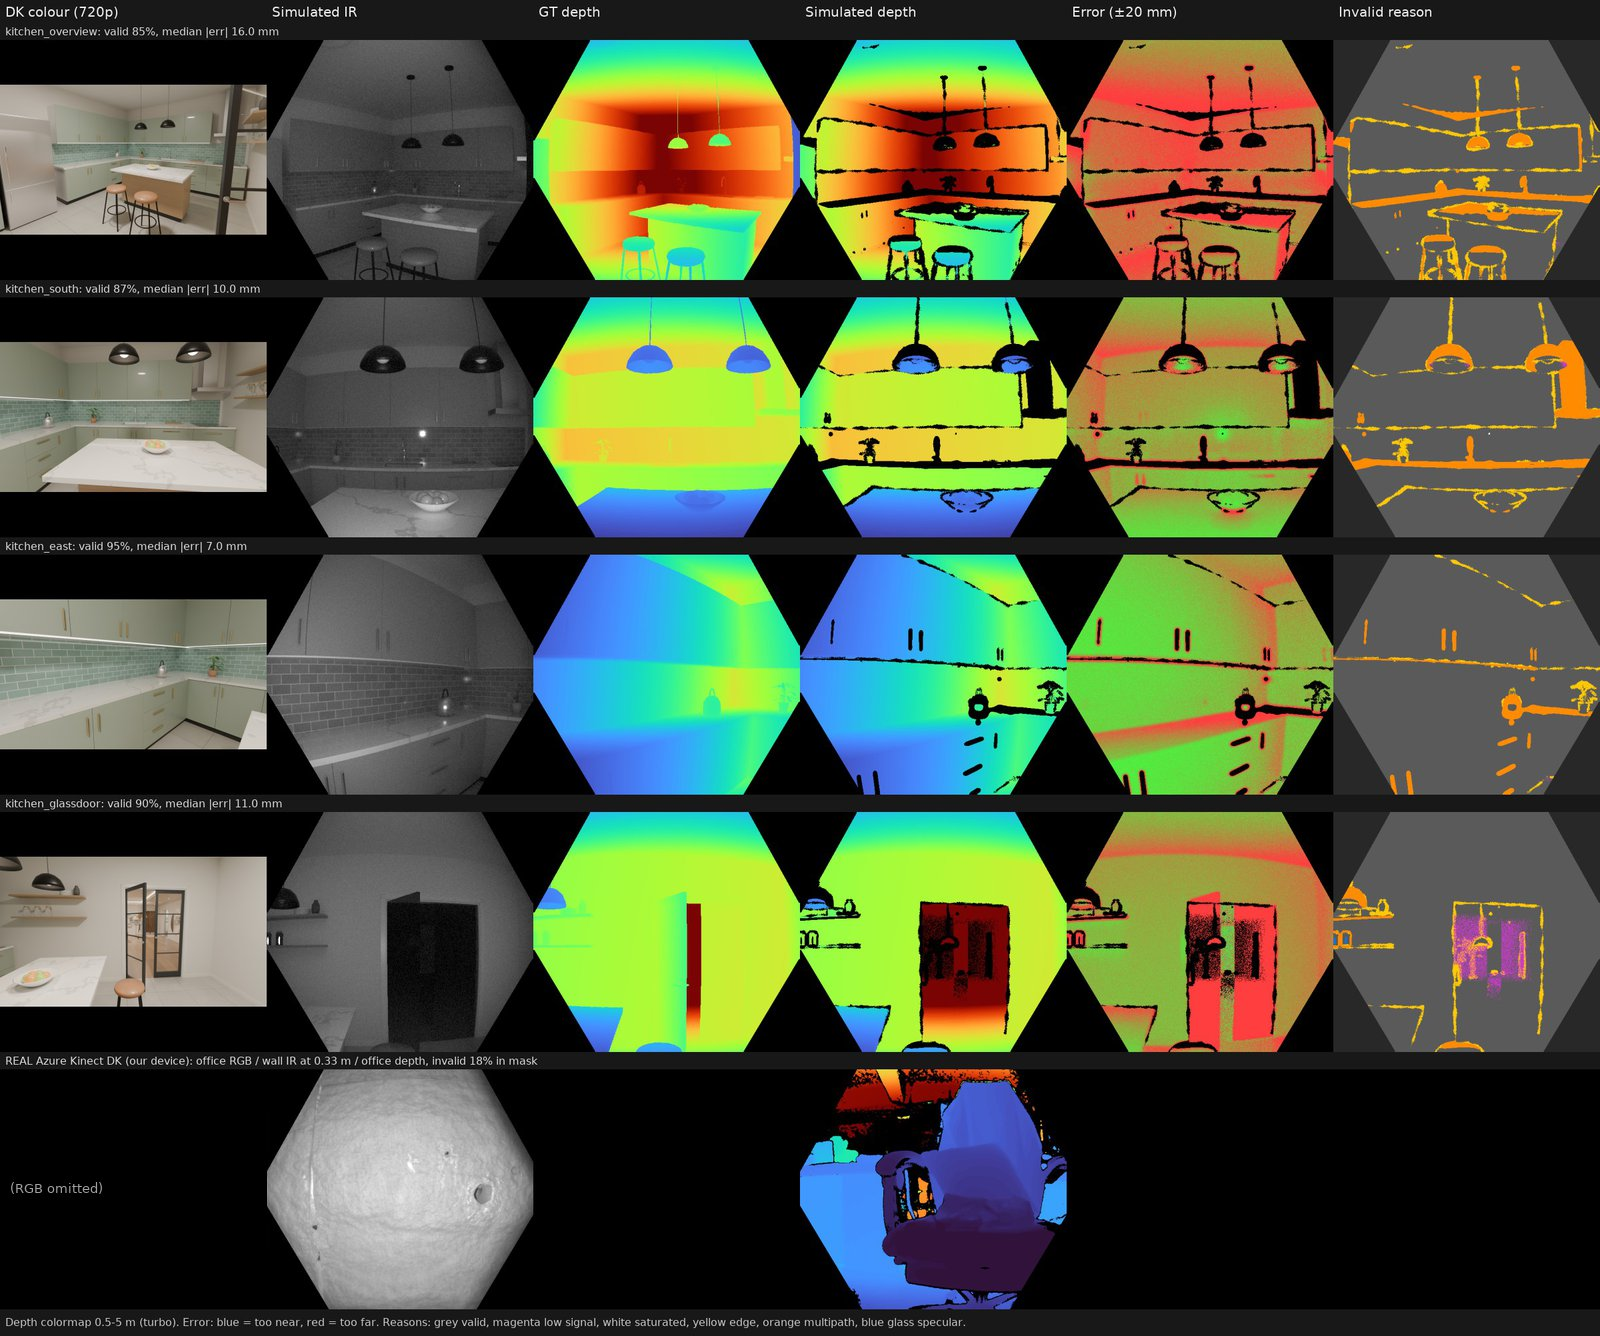
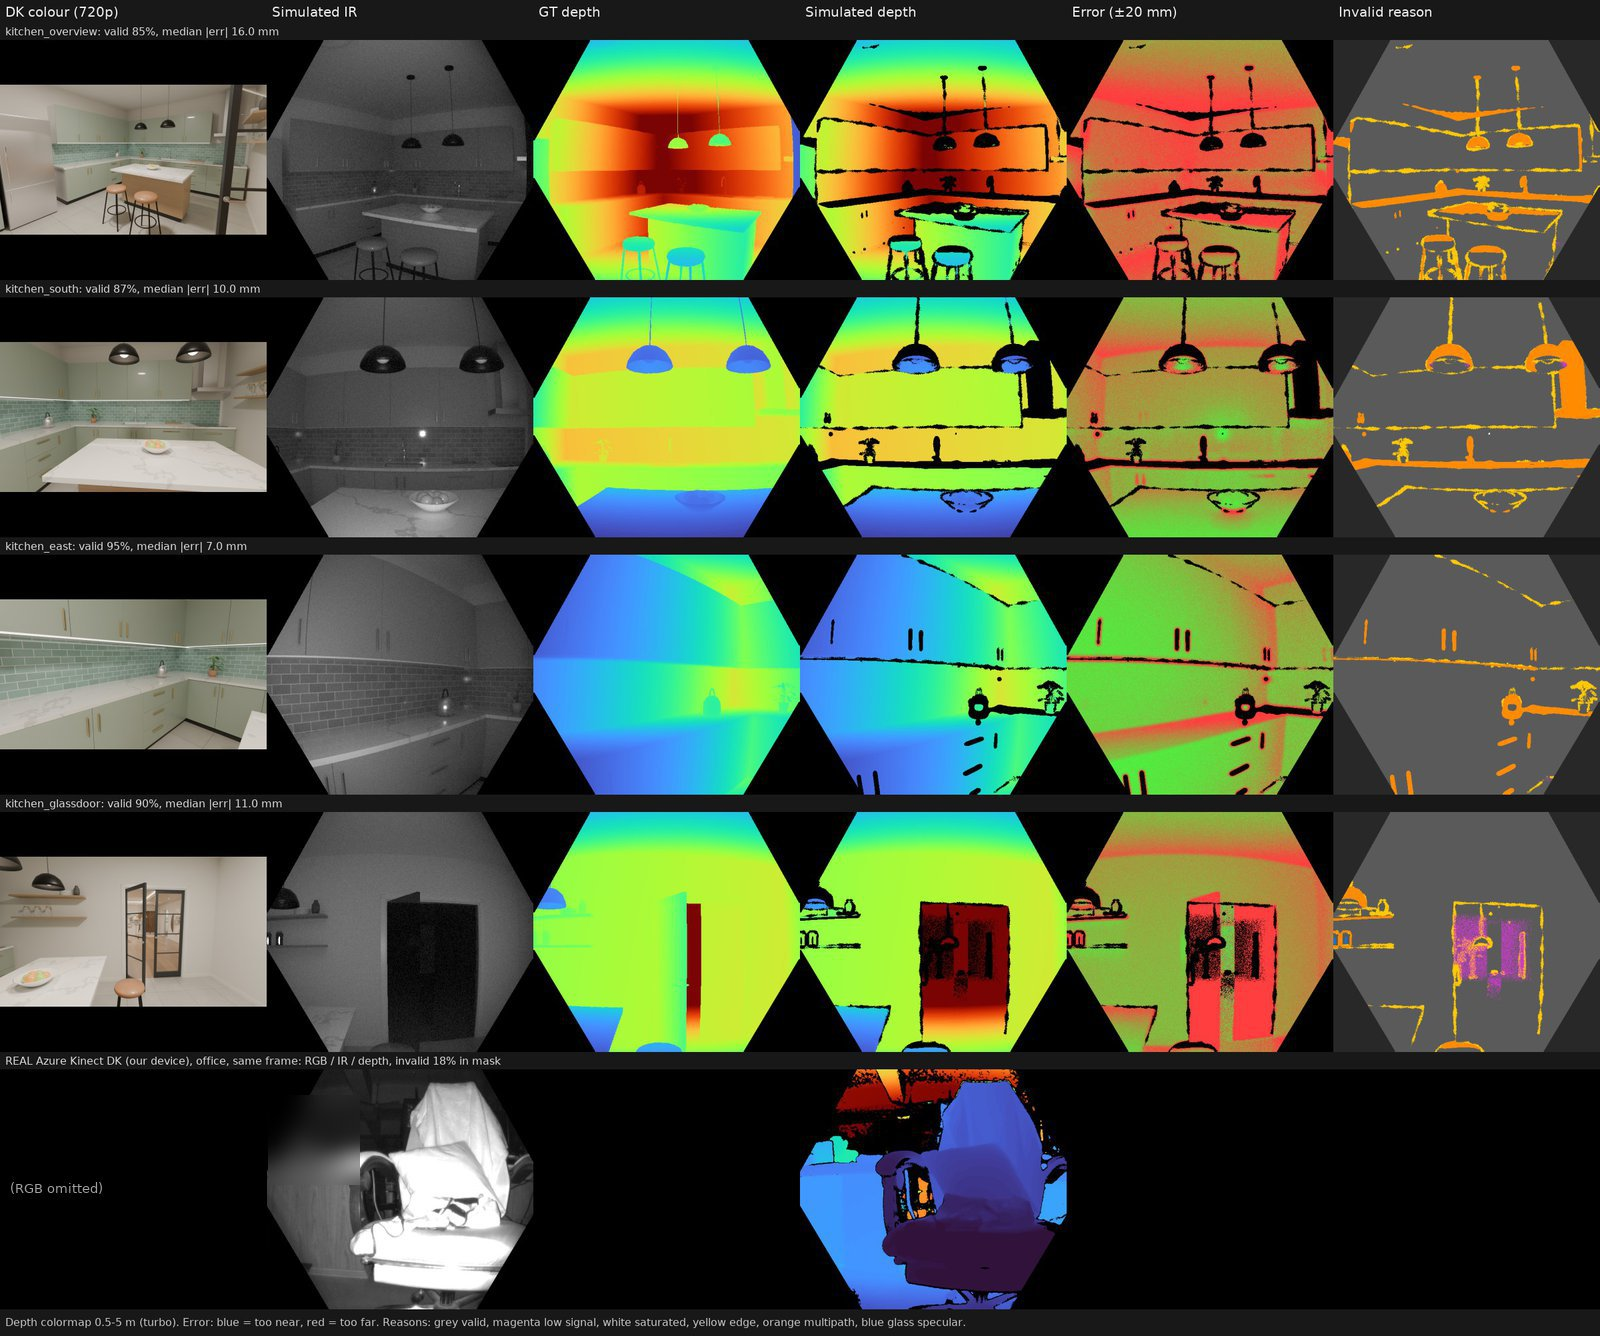
DK preview: real reference row uses IR from the same office frame

Changed region(s): [[0.1562, 0.7672, 0.3438, 0.982]]

diff --git a/kinect_dk/kinect_sim.py b/kinect_dk/kinect_sim.py
@@ -14,6 +14,7 @@
 """
 import argparse
 import json
+import subprocess
 import sys
 from pathlib import Path
 
@@ -221,17 +222,24 @@ def preview(out, results, real_root):
         rv[(r['reason'] == 0) & r['mask']] = (90, 90, 90)
         rows.append([tile(colour), tile(irv), tile(colour_depth(r['gt'])), tile(colour_depth(r['depth'])), tile(errv), tile(rv)])
         titles.append(f"{name}: valid {stats['valid_in_mask']:.0%}, median |err| {stats['abs_err_median_mm']:.1f} mm")
-    # 真机参考：test 序列（办公室，近静止）
+    # 真机参考：test 序列（办公室，近静止）同一帧的彩色、红外、深度
+    # 导出目录里没有 test 的红外，直接从录像 MKV 的 IR 轨（第 3 路流）解码同一帧；与模拟红外同一显示比例
     real = sorted((real_root / 'test_pyk4a_export' / 'depth_raw').glob('*.npy'))
     if real:
-        d = np.load(real[50])
-        rgb = cv2.imread(str(sorted((real_root / 'test_pyk4a_export' / 'rgb_raw').glob('*.png'))[50]))
-        wall_ir = sorted((real_root / 'dry_pyk4a_export' / 'ir_raw').glob('*.npy'))
-        irr = np.load(wall_ir[100]).astype(np.float32) if wall_ir else np.zeros_like(d, np.float32)
-        irr = cv2.cvtColor(np.clip((irr / 8000.0) ** 0.5 * 255, 0, 255).astype(np.uint8), cv2.COLOR_GRAY2BGR)
+        fi = 50
+        d = np.load(real[fi])
+        rgb = cv2.imread(str(sorted((real_root / 'test_pyk4a_export' / 'rgb_raw').glob('*.png'))[fi]))
+        mkv = real_root.parent / 'video' / 'test_pyk4a.mkv'
+        irr = np.zeros_like(d, np.float32)
+        if mkv.exists():
+            raw = subprocess.run(['ffmpeg', '-v', 'error', '-i', str(mkv), '-map', '0:2', '-vf', f'select=eq(n\\,{fi})',
+                                  '-frames:v', '1', '-f', 'rawvideo', '-pix_fmt', 'gray16le', '-'],
+                                 capture_output=True, check=True).stdout
+            irr = np.frombuffer(raw, np.uint16).reshape(d.shape).astype(np.float32)
+        irr = cv2.cvtColor(np.clip((irr / 1500.0) ** 0.5 * 255, 0, 255).astype(np.uint8), cv2.COLOR_GRAY2BGR)
         blank = np.zeros((360, 400, 3), np.uint8)
         rows.append([tile(rgb), tile(irr), blank, tile(colour_depth(d)), blank, blank])
-        titles.append(f'REAL Azure Kinect DK (our device): office RGB / wall IR at 0.33 m / office depth, invalid {(d == 0)[np.load(HERE / "dk_params.npz")["mask"]].mean():.0%} in mask')
+        titles.append(f'REAL Azure Kinect DK (our device), office, same frame: RGB / IR / depth, invalid {(d == 0)[np.load(HERE / "dk_params.npz")["mask"]].mean():.0%} in mask')
     head = ['DK colour (720p)', 'Simulated IR', 'GT depth', 'Simulated depth', 'Error (±20 mm)', 'Invalid reason']
     th, rh = 34, 26
     sheet = np.full((th + len(rows) * (360 + rh) + 40, 2400, 3), 24, np.uint8)

diff --git a/README.md b/README.md
@@ -46,7 +46,7 @@ Per view: `depth.png` (uint16 mm, 0 = invalid), `ir.png`, `depth_gt.png`, `depth
 Model parameters are in `PARAMS` of `kinect_sim.py`. Multipath, saturation and IR noise are still estimates.
 
 Kitchen test (4 views). Columns: DK colour, simulated IR, GT depth, simulated depth, error, invalid reason.
-Bottom row: our real DK for reference (wall IR at 0.33 m, office depth).
+Bottom row: our real DK for reference (office, IR and depth from the same frame; RGB omitted, face blurred).
 
 ![Azure Kinect DK simulation](docs/kinect_dk_preview.jpg)
 
